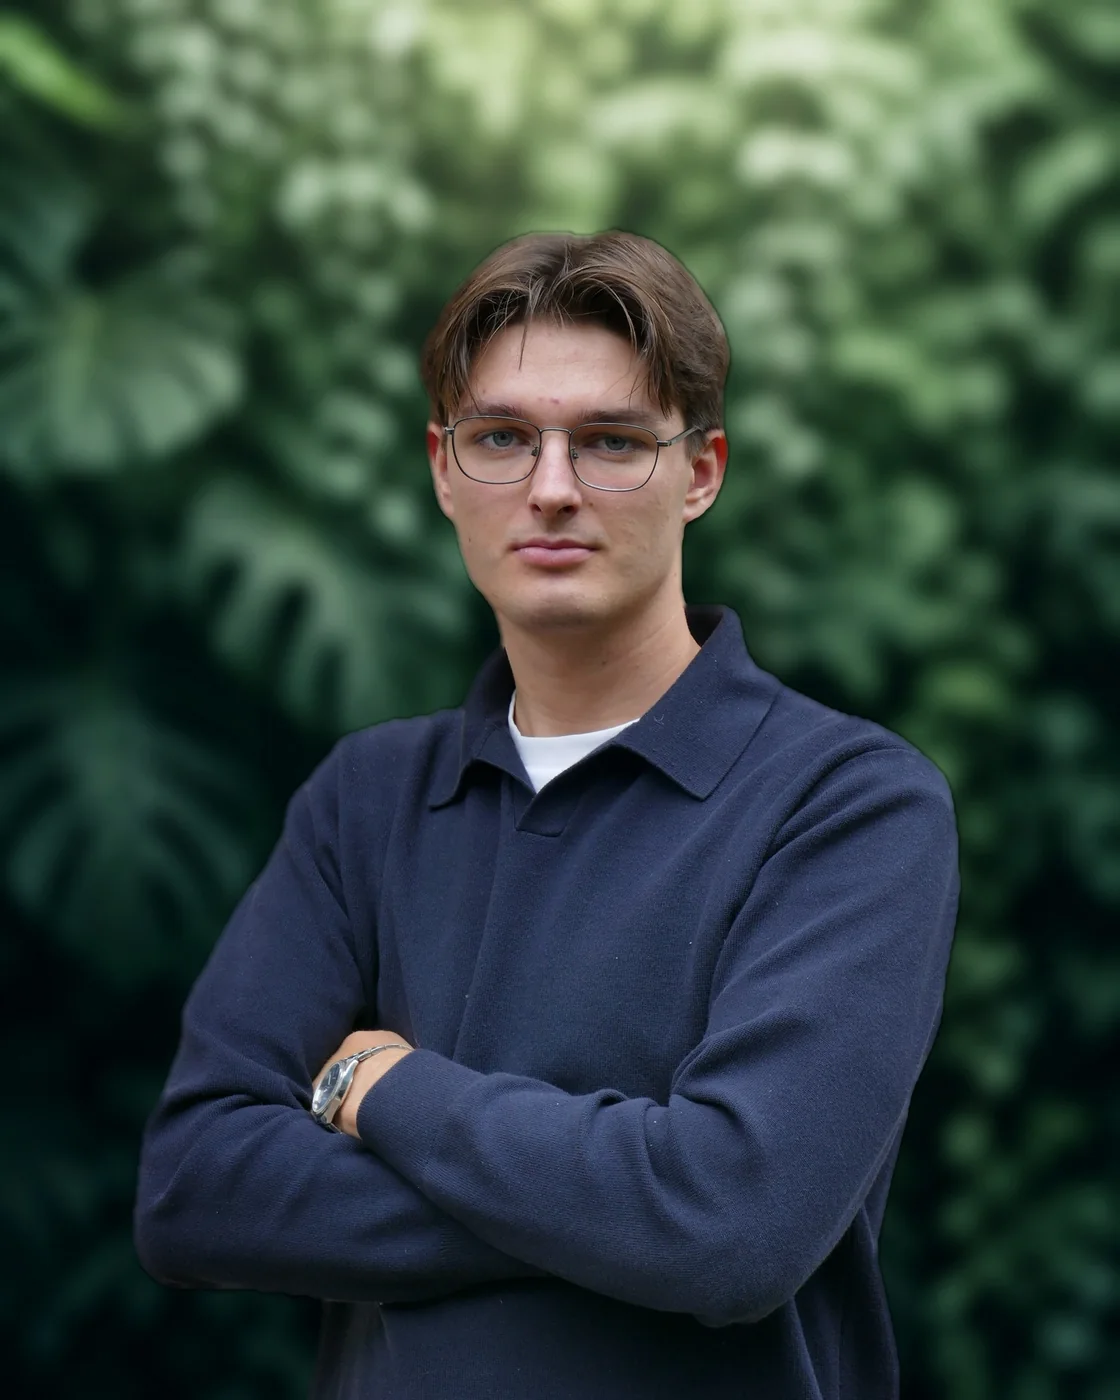
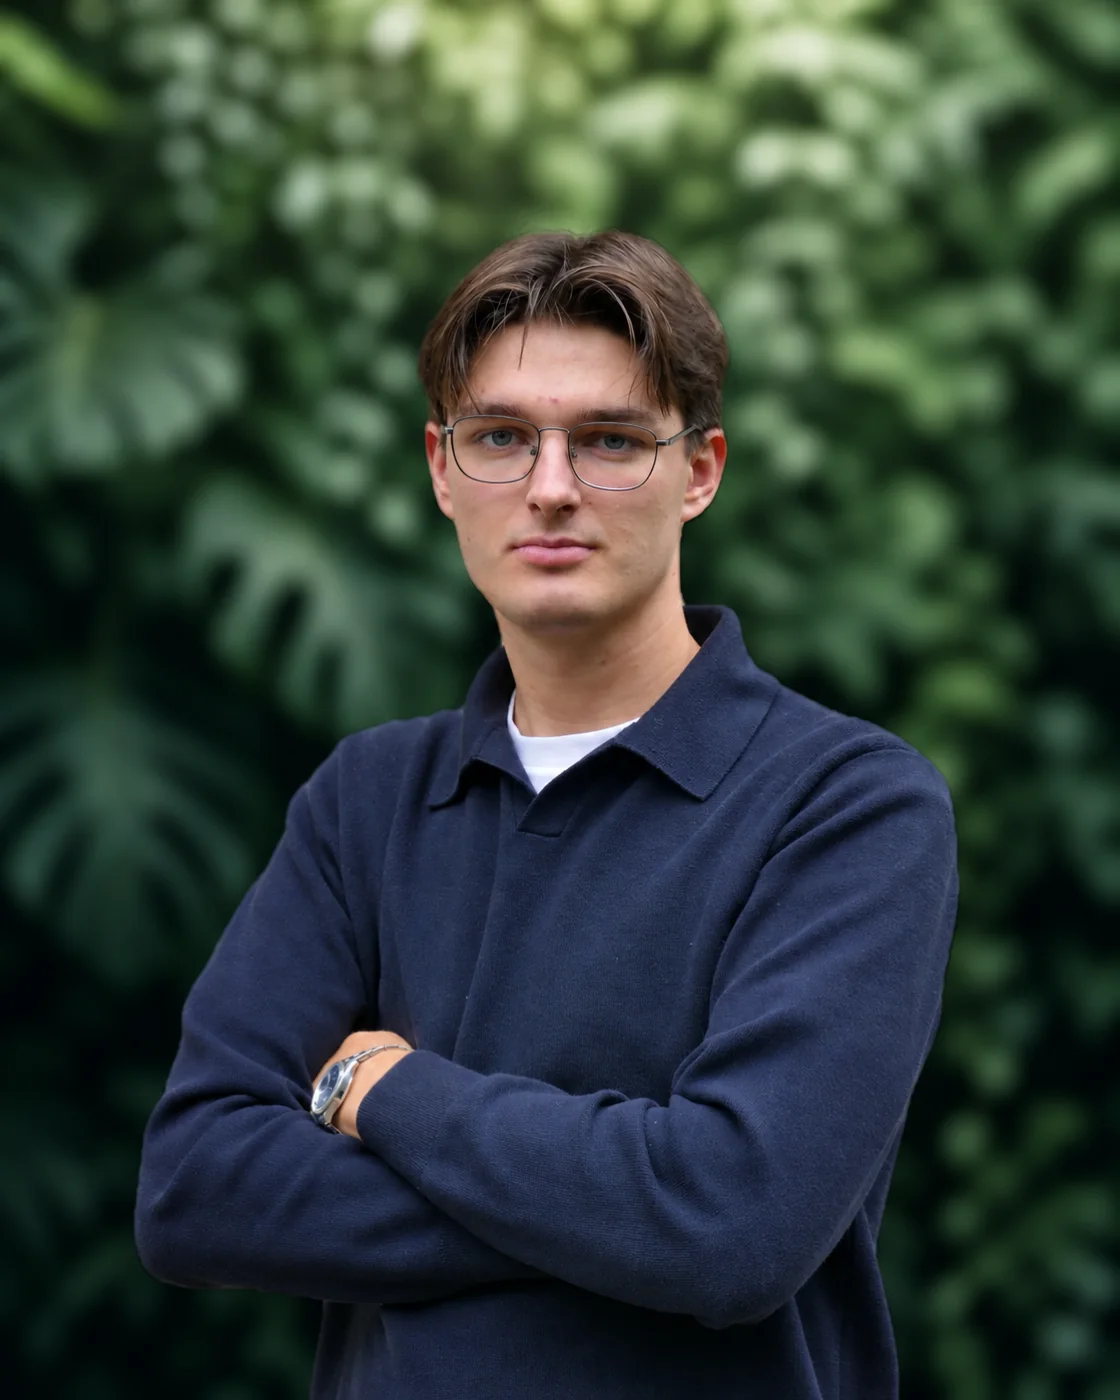
v3 preview: GPT-improved founder portraits (same photos), static snapshot tooling
Preview only, published to v3.programo.pl. Not merged to main.

diff --git a/next.config.ts b/next.config.ts
@@ -30,6 +30,9 @@ const nextConfig: NextConfig = {
   // deploy there is one lockfile and this is a no-op.
   turbopack: { root: __dirname },
   images: {
+    // Static preview snapshots (v3.programo.pl) are plain files on a static
+    // host with no image optimizer behind /_next/image.
+    unoptimized: process.env.STATIC_PREVIEW === "1",
     formats: ["image/avif", "image/webp"],
     minimumCacheTTL: 60 * 60 * 24 * 30,
     remotePatterns: [
